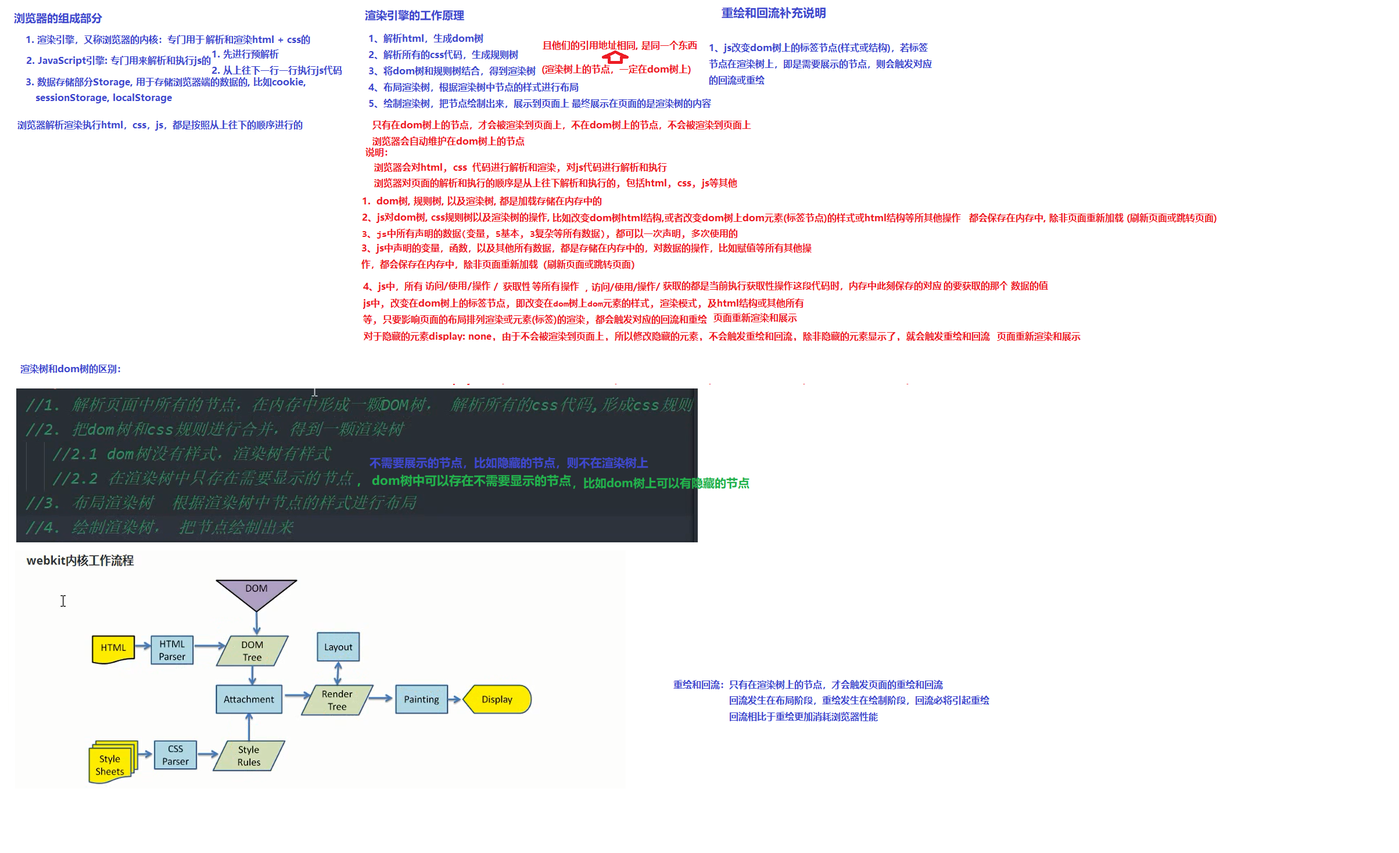
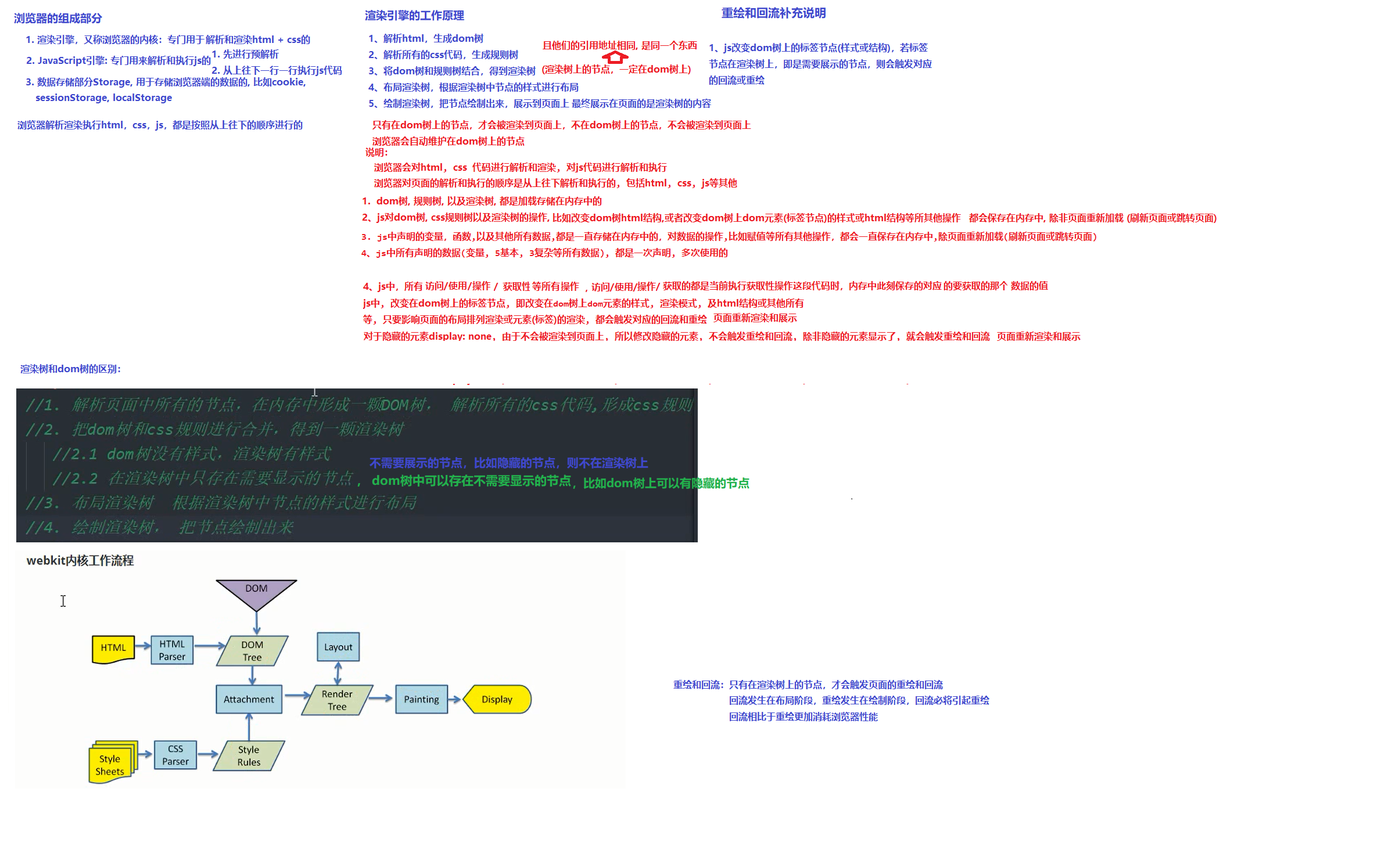
0314-01

Changed region(s): [[0.2492, 0.2451, 0.5918, 0.337], [0.6229, 0.2757, 0.7787, 0.3063]]

diff --git a/14-Vue开发/day01/03-code/07-v-on.html b/14-Vue开发/day01/03-code/07-v-on.html
@@ -63,12 +63,12 @@
         data: {
           name: 'itcast'
         },
-        // vue中规定, vue实例中所有定义(声明, 创建)函数都在methods对象的属性中定义(推荐使用es6对象中函数简写形式), 可以声明多个, methods中都是声明函数, 不会调用
+        // vue中规定, vue实例中所有定义(声明, 创建)函数都在methods对象的属性中定义(推荐使用es6对象中函数属性简写形式), 可以声明多个, methods中都是声明函数, 不会调用
         // methods是一个对象, 内部只用来声明函数, 推荐使用es6对象简写函数属性的方式
         // ★ 在vue实例methods属性中的所有函数, 他们的函数体中的this都是指向vue实例对象
-        // 而vue实例对象中, 所有的data中的变量及其值, 以及methods中的声明的函数, 都会保存一份到vue实例对象的属性上, 并且始终保持他们是实时同步且一致的, 即只要某一个变, 另一个也会自动跟着一起变, 始终保持一致
+        // 而vue实例对象中, 所有的data中的变量及其值, 以及methods中的声明的函数, 都会保存一份到vue实例对象的属性上, 并且始终保持他们是实时同步且一致的, 即只要其中某一个变, 另一个也会自动跟着一起变, 始终保持一致
         // 我们可以直接通过vue实例.变量名访问到data中的数据; vue实例.函数名访问到methods中的函数 (引用地址)
-        // 我们也可以直接通过vue实例.变量名 = 值 (一般都这么用) 赋值会同步更新到data中的对应变量, 即可以给data中的变量赋值; vue实例.函数名 = 函数 (引用地址) (一般不这么用) ,
+        // 我们也可以直接通过vue实例.变量名 = 值 (一般都这么用) 赋值且赋值会同步更新到data中的对应变量, 即可以给data中的变量赋值; vue实例.函数名 = 函数 (引用地址) (一般不这么用) ,
         // 由以上可以知道, 我们可以把data中拷贝到vue实例中的变量 和 data中存储的变量 看作 同一个东西, 因为他俩是实时同步且一致的, 一个变, 另一个也会自动跟着一起变, 始终保持一致
         // 所以我们在methods中的函数的函数体中, 可以通过this.变量名 直接访问到 data中的数据, 通过this.函数名 直接访问到methods中的函数 (引用地址, 调用的话要加括号())
         // 所以我们在methods中的函数的函数体中, 可以通过this.变量名 = 值, 赋值会同步更新到data中的对应变量, 来给data中的变量赋值
@@ -76,12 +76,12 @@
         // 总结:
         // 在methods的函数的函数体中,
         //        1> 访问/获取data中的变量, 直接通过this.变量名即可;
-        //        2> 给data中的变量赋值, 直接通过this.变量名 = 值 即可;
+        //        2> 给data中的变量赋值, 直接通过this.变量名 = 值 即可; (如果是对象属性, this.对象变量名.对象属性名 = 值,  可以给data中的对象变量中的属性值赋值(添加或修改属性)
         //        3> 访问/获取methods中的函数(引用地址), 直接通过this.函数名即可, 获取到函数的引用地址后可以直接加 () 调用.
         //        4> 给methods中的函数赋值, 直接通过this.函数名 = 值 即可 (一般不会去修改methods中的函数的值)
         // vue在所有可以获取到vue实例的地方,
         //        1> 访问/获取data中的变量, 直接通过vue实例.变量名 即可;
-        //        2> 给data中的变量赋值, 直接通过vue实例.变量名 = 值 即可;
+        //        2> 给data中的变量赋值, 直接通过vue实例.变量名 = 值 即可; (如果是对象属性, vue实例.对象变量名.对象属性名 = 值,  可以给data中的对象变量中的属性值赋值(添加或修改属性)
         //        3> 访问/获取methods中的函数(引用地址), 直接通过vue实例.函数名即可, 获取到函数的引用地址后可以直接加 () 调用.
         //        4> 给methods中的函数赋值, 直接通过vue实例.函数名 = 值 即可 (一般不会去修改methods中的函数的值)
         //           所有访问/使用/获取性的操作, 访问/使用/获取的都是当前获取性代码执行时, 内存里此刻存储着的对应获取数据的值

diff --git a/14-Vue开发/day02/03-code/11-computed.html b/14-Vue开发/day02/03-code/11-computed.html
@@ -28,22 +28,24 @@
           // 用函数的调用也可以达到计算属性的作用, 但是函数的调用没有缓存机制, 而计算属性有缓存机制, 所以计算属性的性能比函数的调用好!
             fullName() {
             console.log('computed')
-            // 必须要return
+                // 必须要return
             return this.firstName + this.lastName
           }
         }
         // 计算属性说明:
-          //   computed计算属性，它表示根据已有属性，计算得到一个新的属性
-          // 1. computed, 是一个对象, 里面都是存储着函数, 且都是函数的声明, 不会调用, 推荐使用es6对象中函数简写形式
+          //   computed计算属性，它表示根据已有属性，计算得到一个新的属性, 用来解决插值表达式中要展示逻辑复杂的数据时的问题
+          // 1. computed, 是一个对象, 里面都是存储着函数 (属性都是函数属性), 且都是函数的声明, 不会调用, 推荐使用es6对象中函数属性简写形式
           // 2. computed中的定义的函数属性, 必须要return一个值 (不return默认return undefined), computed中可以定义多个函数, 每一个函数都是一个计算属性
           // 3. computed中的定义的函数属性的函数体中, this指向vue实例, 则可以访问到data中的变量和methods中的方法以及其他计算属性了
           // 4. 在插值表达式或vue指令中, 可以直接通过computed中的函数名, 来获取对应computed计算属性中对应函数的返回值
-          // 5. 在vue实例对象中, 会拷贝computed中的所有计算属性作为自身属性, 属性名为computed中的函数名, 属性值为computed中对应函数的返回值,
+          // 5. 在vue实例对象中, 会拷贝computed中的所有计算属性作为自身vue实例属性, 属性名为computed中的函数名, 属性值为computed中对应函数的返回值,
           //    所有可以访问vue实例的地方, 可以直接通过vue实例.computed计算属性中对应的函数名 来获取对应computed计算属性中对应函数的返回值
           // 6. 计算属性的每个函数中, 会自动监听该函数体中使用到的所有数据, 只要函数体中使用到的数据发生改变,
           //    如使用到data中的数据, 然后data中的对应数据改变了, 则该计算属性会自动重新计算, 并且return重新计算之后的值,
           //    所有使用到该计算属性的地方, 比如插值表达式或vue指令, 或vue实例对象中拷贝的计算属性, 都会自动更新 和 自动更新渲染到页面!
           // 7. 在computed计算属性的函数中, 不能使用异步函数, 如setTimeout, 会导致计算属性无效, 为了解决无法使用异步函数的问题, 出现了watch
+          // 8. 计算属性一般只用于计算简单的数据并展示到视图中, 不推荐作为逻辑代码处理
+          // 9. 计算属性不作为data中的变量, 不存储在data中
 
       })
     </script>

diff --git a/14-Vue开发/day01/03-code/01-vue版hello world.html b/14-Vue开发/day01/03-code/01-vue版hello world.html
@@ -26,6 +26,7 @@
       // 4. 通过data属性保存页面需要用到的数据, 每个键值对可以 ★★★ 视为一个变量, 变量名为属性名, 变量值为对应的属性值, data又称数据模型
       //   4.1 data属性的属性值是一个对象, data中存放的每个属性 都可以视作vue中的变量, 可以存放多个属性
       //   4.2 data是一个对象, 所以属性中, 属性值可以是任意类型的 (5简单3复杂), 但我们一般在data中不存储函数属性, 将函数属性存到之后的methods中
+      //   4.3 data中的每个属性可以看作vue中的变量, 值可以是任意类型的(5基本3复杂), 一般不存储函数属性
       data: {
         msg: 'hello world'
       }
@@ -43,10 +44,11 @@
     // vue中的视图还是html, html标签
 
     // 特别说明:
-    // 1. vue底层也是使用js开发的, 所以底层也是js
-    // 2. vue中的数据都会保存在内存里, 对数据的操作, 也会保存在内存里, 除非页面重新加载 (刷新或页面跳转)
-    // 3. vue中的获取性操作, 获取的都是当前执行获取性操作js代码时, 当前此刻内存里存储的对应数据的值
-    // 4. vue的自动渲染, 双向绑定的等所有其他操作 (因为底层也是对dom树等其他的操作) , 也会保存在内存里, 除非页面重新加载
+    // 1. vue底层也是使用js开发的, 所以底层也是js, 所以vue也是js, vue中支持js的所有语法
+    // 2. vue中的数据都是一次声明, 多次使用
+    // 3. vue中的数据都会保存在内存里, 对数据的操作, 也会保存在内存里, 除非页面重新加载 (刷新或页面跳转)
+    // 4. vue中的获取性操作, 获取的都是当前执行获取性操作js代码时, 当前此刻内存里存储的对应数据的值
+    // 5. vue的自动渲染, 双向绑定的等所有其他操作 (因为底层也是对dom树等其他的操作) , 也会保存在内存里, 除非页面重新加载
     //    所有访问/使用/获取性的操作, 访问/使用/获取的都是当前获取性代码执行时, 内存里此刻存储着的对应获取数据的值
 
   </script>

diff --git a/06-Ajax/day02/04-demo/13-$.ajax的基本使用.html b/06-Ajax/day02/04-demo/13-$.ajax的基本使用.html
@@ -13,7 +13,7 @@
   <script>
 
     // 使用jq封装的ajax, 底层原理和机制, 以及参数的默认值都与我们自己封装的ajax类似, 可以参考我们自己封装的ajax来理解jq的ajax
-    // 特别说明, 参数dataType, 是指定我们在接收到后台返回的数据后, 要如何进行解析数据,
+    // 特别说明, 参数dataType, 是指定我们在接收到后台返回的响应体中的全部数据后, 要如何进行解析数据,
     //          然后将解析后的数据作为实参传入调用的success回调函数, 这样在success中就可以拿到解析后的后台返回的数据,
     //          dataType  并不能改变后台返回给我们的数据
     //          dataType: 'json', 'xml', 'text' ;
@@ -33,6 +33,8 @@
     //        只有在readyState为4时, 并且http响应码为200时, 才会调用成功的回调函数success,
     //        只有在readyState为4时, 并且http响应码为其他时, 会调用失败的回调函数error,
     //        不管是成功还是失败的回调函数, 只会被调用其中一个, 并且一次请求只会被调用一次
+    // 由之前封装可以知道, 若请求成功了(readyState为4且http响应码为200), 会将响应体中的所有内容, 根据dataType进行处理后, 在调用成功的回调函数时, 作为实参传入;
+    // 若请求失败了(readyState为4且http响应码不为200),, 会将响应体中的所有内容, 以文本形式, 作为实参传入失败的回调函数
     // ps: 参数data除了支持传递对象, 也支持传递原始的 字符串 形式的拼接参数. key=value&key=value
     // ps：由之前封装我们可以知道, 参数传对象进去之后, 最后也是被转换拼接成 key=value&key=value形式的字符串进行传输, 所以不管对象中的属性值是什么类型, 最后传递的时候值都是字符串, 传递的参数值都是字符串类型的
     // ps: 对于复杂数据类型的传输, 参数对象中的对应的属性值要用json格式的字符串

diff --git a/14-Vue开发/day02/03-code/15-aixios的简单使用.html b/14-Vue开发/day02/03-code/15-aixios的简单使用.html
@@ -25,6 +25,24 @@
             .catch( err => {
               console.log(err);
             })
+         // axios 不依赖于vue, 是独立的插件, 在其他框架中也可以使用
+         // axios说明:
+         // axios也是用来发送ajax请求的, 与我们之前封装的ajax请求以及jq提供的ajax请求在处理请求响应时稍有不同,
+         // .then(成功的回调函数声明fn)   .catch(失败的回调函数声明fn)
+         // 成功的回调函数 :
+            // 1. 成功的回调函数中有一个形参, 假设形参名为res,
+            // 2. 在请求成功时, 即readyStatus为4且http响应码为200时, 调用.then里成功的回调函数, 并且自己封装一些数据, 作为实参传入,
+            //   2.1 封装的数据: 是一个对象, 包含一些请求的基本信息, 其中data属性, 包含了本次请求的响应体中的所有内容, 并且会自动转为js对象或数组, 将来会将整个封装的数据在调用成功的回调函数时作为实参传入
+            //       ps: 响应体中的所有数据会转为JS对象或数组放在data属性中, 对象中除data外的其他数据都是axios帮我们手动封装的, 和响应体中的数据没有任何关系
+            // 3. 在成功的回调函数中, 通过形参res.data可以拿到本次请求的响应体中的全部数据, 且已经是转为JS对象或数组格式的了
+         // 失败的回调函数:
+            // 1. 在请求失败时, 具体为readyStatus = 4 且 http响应码不为200时调用.catch中失败的回调函数, 并且会将失败的信息作为实参传入
+            // 2. 失败的回调函数有一个形参err, 包含失败的一些基本信息, 会在调用失败的回调函数时传入
+
+
+         // axios 不支持使用jsonp跨域
+         // 解决: 1. 代理 (配合webpack)
+         //       2. 后台设置CORS
         }
       })
     </script>

diff --git a/03-JavaScript高级/day01/04-上课代码/03-函数的作用域问题和预解析问题.html b/03-JavaScript高级/day01/04-上课代码/03-函数的作用域问题和预解析问题.html
@@ -16,12 +16,12 @@
 
 
   //词法作用域(静态作用域)(变量查找规则): 代码一旦书写完毕,那么作用域就形成了,跟调用函数没有关系
-  // js中所有变量的访问/查找/使用 都需要遵循词法作用域
+  // js中所有变量(只要是变量) 的访问/查找/使用/赋值等所有使用到变量的操作, 都需要遵循词法作用域规则
 //  1. 外部作用域不能访问内容作用域的变量, 内部可以访问外部
 //  2. 访问/查找/使用/操作/赋值变量的时候,先在自己的当前作用域中查找, 找到了直接使用(可以获取值, 也可以赋值),并停止查找 如果找不到就沿着作用域链往上级链找,找到了直接使用(可以获取值, 也可以赋值),停止查找,找不到继续往上找 (只能往上找,不能往下找),直到全局
 //  3. 延续2. 如果只是访问变量,如果找到全局都没有的话,会报错(xxx is not  defined)
 //  4. 延续2. 如果要给变量赋值, 在自己作用域或沿着作用域链找到了, 则直接给变量赋值, 并停止查找, 若找到全局都没有的话,那么浏览器会帮我们在全局自动创建这个变量并赋值 (隐式全局)
-//  5. ★ 给变量赋值之前/变量访问, 获取, 使用, 操作之前,要先通过词法作用域 ★ 先找到变量 ★ , 然后才进行赋值或访问, 获取, 使用, 操作
+//  5. ★ js中给变量赋值之前/变量访问, 获取, 使用, 操作之前,要先通过词法作用域 ★ 先找到变量 ★ , 然后才进行赋值或访问, 获取, 使用, 操作 .
 //  6. 代码执行之前,要考虑预解析规则,函数的代码执行之前,也要执行预解析规则
 //  ps: 词法作用域和作用域链 是查找 变量 的规则
 //  ★: 访问和使用变量, 除了参考词法作用域, 还要参考 预解析 和 代码的执行顺序, 来看当前访问的变量是否声明及当前访问变量的值是多少

diff --git a/01-JavaScript基础/day01/02-代码/day01-code/01.js.html b/01-JavaScript基础/day01/02-代码/day01-code/01.js.html
@@ -24,8 +24,8 @@ js中, 后面只要没有说是异步的, 则都是同步执行的, 即要等到
     浏览器对页面的解析和执行的顺序是从上往下解析和执行的, 包括html, css, js等其他.
 1. dom树,规则树,以及渲染树,都是加载存储在内存中的
 2. js对dom树, css规则树以及渲染树的操作,比如改变dom树htm结构,或者改变dom树上dom元素(标签节点)的样式或html结构等所其他操作都会保存在内存中, 除非页面重新加载(刷新页面或跳转页面)
-3、js中所有声明的数据(变量, 5基本, 3复杂等所有数据), 都可以一次声明, 多次使用的
-4. js中声明的变量，函数,以及其他所有数据,都是存储在内存中的，对数据的操作,比如赋值等所有其他操作，都会保存在内存中,除页面重新加载(刷新页面或跳转页面)
+3. js中声明的变量，函数,以及其他所有数据,都是一直存储在内存中的，对数据的操作,比如赋值等所有其他操作，都会一直保存在内存中,除页面重新加载(刷新页面或跳转页面)
+4、js中所有声明的数据(变量, 5基本, 3复杂等所有数据), 都是一次声明, 多次使用的
 5、js中,所有访问/使用/操作/获取性等所有操作,获取的都是访问/使用/操作/获取当前执行获取性操作这段代码时，内存中此刻保存的对应的要获取的那个数据的值
 js中，改改在dom树上的标签节点，即改变在dom树上dom元素的样式渲染模式,及html结构或其他所有等,只要影响页面的布局排列渲染或元素(标签)的渲染，都会触发对应的回流和重绘
 对于隐藏的元素display: none,不会被渲染到页面上,所以修改隐藏的元素,不会触发重绘和回流，除非隐藏的元素显示了,就会触发重绘和回流

diff --git a/02-WebAPIs编程/补充-重绘回流-面试题.html b/02-WebAPIs编程/补充-重绘回流-面试题.html
@@ -108,9 +108,8 @@
 		// 浏览器对页面的解析和执行的顺序是从上往下解析和执行的, 包括html, css, js等其他
 		// 1. dom树,规则树,以及渲染树,都是加载存储在内存中的
 		// 2. js对dom树, css规则树以及渲染树的操作,比如改变dom树htm结构,或者改变dom树上dom元素(标签节点)的样式或html结构等所其他操作都会保存在内存中, 除非页面重新加载(刷新页面或跳转页面)
-		// 3、js中所有声明的数据(变量, 5基本, 3复杂等所有数据), 都可以一次声明, 多次使用的
-		// 4. js中声明的变量，函数,以及其他所有数据,都是存储在内存中的，对数据的操作,比如赋值等所有其他操
-		// 作，都会保存在内存中,除页面重新加载(刷新页面或跳转页面)
+		// 3. js中声明的变量，函数,以及其他所有数据,都是一直存储在内存中的，对数据的操作,比如赋值等所有其他操作，都会一直保存在内存中,除页面重新加载(刷新页面或跳转页面)
+		// 4、js中所有声明的数据(变量, 5基本, 3复杂等所有数据), 都是一次声明, 多次使用的
 		// 5、js中,所有访问/使用/操作/获取性等所有操作,获取的都是访问/使用/操作/获取当前执行获取性操作这段代码时，内存中此刻保存的对应的要获取的那个数据的值
 		//
 		// js中，改改在dom树上的标签节点，即改变在dom树上dom元素的样式渲染模式,及html结构或其他所有等,只要影响页面的布局排列渲染或元素(标签)的渲染，都会触发对应的回流和重绘

diff --git a/03-JavaScript高级/day03/04-上课代码/07-js是单线程和js的事件轮询机制.html b/03-JavaScript高级/day03/04-上课代码/07-js是单线程和js的事件轮询机制.html
@@ -28,9 +28,8 @@
   // 浏览器对页面的解析和执行的顺序是从上往下解析和执行的, 包括html, css, js等其他.
   // 1. dom树,规则树,以及渲染树,都是加载存储在内存中的
   // 2. js对dom树, css规则树以及渲染树的操作,比如改变dom树htm结构,或者改变dom树上dom元素(标签节点)的样式或html结构等所其他操作都会保存在内存中, 除非页面重新加载(刷新页面或跳转页面)
-  // 3、js中所有声明的数据(变量, 5基本, 3复杂等所有数据), 都可以一次声明, 多次使用的
-  // 4. js中声明的变量，函数,以及其他所有数据,都是存储在内存中的，对数据的操作,比如赋值等所有其他操
-  // 作，都会保存在内存中,除页面重新加载(刷新页面或跳转页面)
+  // 3. js中声明的变量，函数,以及其他所有数据,都是一直存储在内存中的，对数据的操作,比如赋值等所有其他操作，都会一直保存在内存中,除页面重新加载(刷新页面或跳转页面)
+  // 4、js中所有声明的数据(变量, 5基本, 3复杂等所有数据), 都是一次声明, 多次使用的
   // 5、js中,所有访问/使用/操作/获取性等所有操作,获取的都是访问/使用/操作/获取当前执行获取性操作这段代码时，内存中此刻保存的对应的要获取的那个数据的值
   //
   // js中，改改在dom树上的标签节点，即改变在dom树上dom元素的样式渲染模式,及html结构或其他所有等,只要影响页面的布局排列渲染或元素(标签)的渲染，都会触发对应的回流和重绘

diff --git a/02-WebAPIs编程/day03/04-上课代码/03-DOM树.html b/02-WebAPIs编程/day03/04-上课代码/03-DOM树.html
@@ -39,9 +39,8 @@
 // 浏览器对页面的解析和执行的顺序是从上往下解析和执行的, 包括html, css, js等其他.
 // 1. dom树,规则树,以及渲染树,都是加载存储在内存中的
 // 2. js对dom树, css规则树以及渲染树的操作,比如改变dom树htm结构,或者改变dom树上dom元素(标签节点)的样式或html结构等所其他操作都会保存在内存中, 除非页面重新加载(刷新页面或跳转页面)
-// 3、js中所有声明的数据(变量, 5基本, 3复杂等所有数据), 都可以一次声明, 多次使用的
-// 4. js中声明的变量，函数,以及其他所有数据,都是存储在内存中的，对数据的操作,比如赋值等所有其他操
-// 作，都会保存在内存中,除页面重新加载(刷新页面或跳转页面)
+// 3. js中声明的变量，函数,以及其他所有数据,都是一直存储在内存中的，对数据的操作,比如赋值等所有其他操作，都会一直保存在内存中,除页面重新加载(刷新页面或跳转页面)
+// 4、js中所有声明的数据(变量, 5基本, 3复杂等所有数据), 都是一次声明, 多次使用的
 // 5、js中,所有访问/使用/操作/获取性等所有操作,获取的都是访问/使用/操作/获取当前执行获取性操作这段代码时，内存中此刻保存的对应的要获取的那个数据的值
 //
 // js中，改改在dom树上的标签节点，即改变在dom树上dom元素的样式渲染模式,及html结构或其他所有等,只要影响页面的布局排列渲染或元素(标签)的渲染，都会触发对应的回流和重绘

diff --git a/14-Vue开发/day02/03-code/14-watch深度监听.html b/14-Vue开发/day02/03-code/14-watch深度监听.html
@@ -16,7 +16,7 @@
         data: {
           user: {
             name: 'jack'
-          }
+          },
         },
         watch: {
           // 在监听复杂数据类型的时候，不能像之前监听普通数据那样写，我们需要使用深度监听
@@ -28,10 +28,16 @@
             handler(newVal) {
               console.log(newVal);
             },
-            immediate: true,
+            // immediate: true, 一上来默认调用一次handler, 一般不用
             deep: true // 表示开启深度监听
-          }
+          },
         }
+        // 说明, 之前的watch中定义函数, 只能用于监听data中变量为基本数据类型的属性变化
+        // 如果data中的变量是一个对象的话, 需要监听对象中的属性的变化, 则需要使用深度监听
+        // 语法: 深度监听在watch中是一个对象属性, 属性名是data中需要监听的变量名, 值是一个对象, 对象中包含了一个函数属性handler, 以及一个普通属性deep
+        // handler: 函数名规定只能叫handler 只是声明, 不会调用, 当监听的变量发生变化时, 会调用handler函数, 自带一个入参newVal, 表示变化后的新值, 拿不到变化之前的旧值
+        //          handler函数体中, this都是指向vue实例, 所以可以获取和操作data中的变量, methods中的函数, 以及computed中的计算属性..
+        // deep: 值是布尔值, true, 表示开启深度监听
       })
     </script>
   </body>

diff --git a/14-Vue开发/day02/03-code/13-watch.html b/14-Vue开发/day02/03-code/13-watch.html
@@ -36,6 +36,14 @@
         }
         // 对比computed而言，这个computed性能更好，所以能用computed实现就用computed实现
         // 在涉及到异步数据操作的时候，就只能用watch去实现了。
+
+       // watch说明：
+       // 1. watch是一个对象, 对象中的属性是函数或对象(深度监听), 可以存储多个函数, (只是声明, 不会调用) 用来监听data中的数据变化
+       // 2. watch中函数名为对应data中要监听变量的变量名, 函数自带2个参数, 分别是变化后的新值 和 变化前的旧值,
+       // 3. 每当监听的data中变量的值发生变化, 就会调用对应的watch中的监听函数, 执行对应的函数体
+       // 4. watch中的函数的函数体中, this都是指向vue实例, 所以可以获取和操作data中的变量, methods中的函数, 以及computed中的计算属性..
+       // 5. 计算属性computed比watch性能更好, 所以能使用计算属性的就使用计算属性,
+       // 6. 在涉及到异步操作时, 只能使用watch; 在涉及到逻辑处理的地方, 也请使用watch .
       })
     </script>
   </body>
